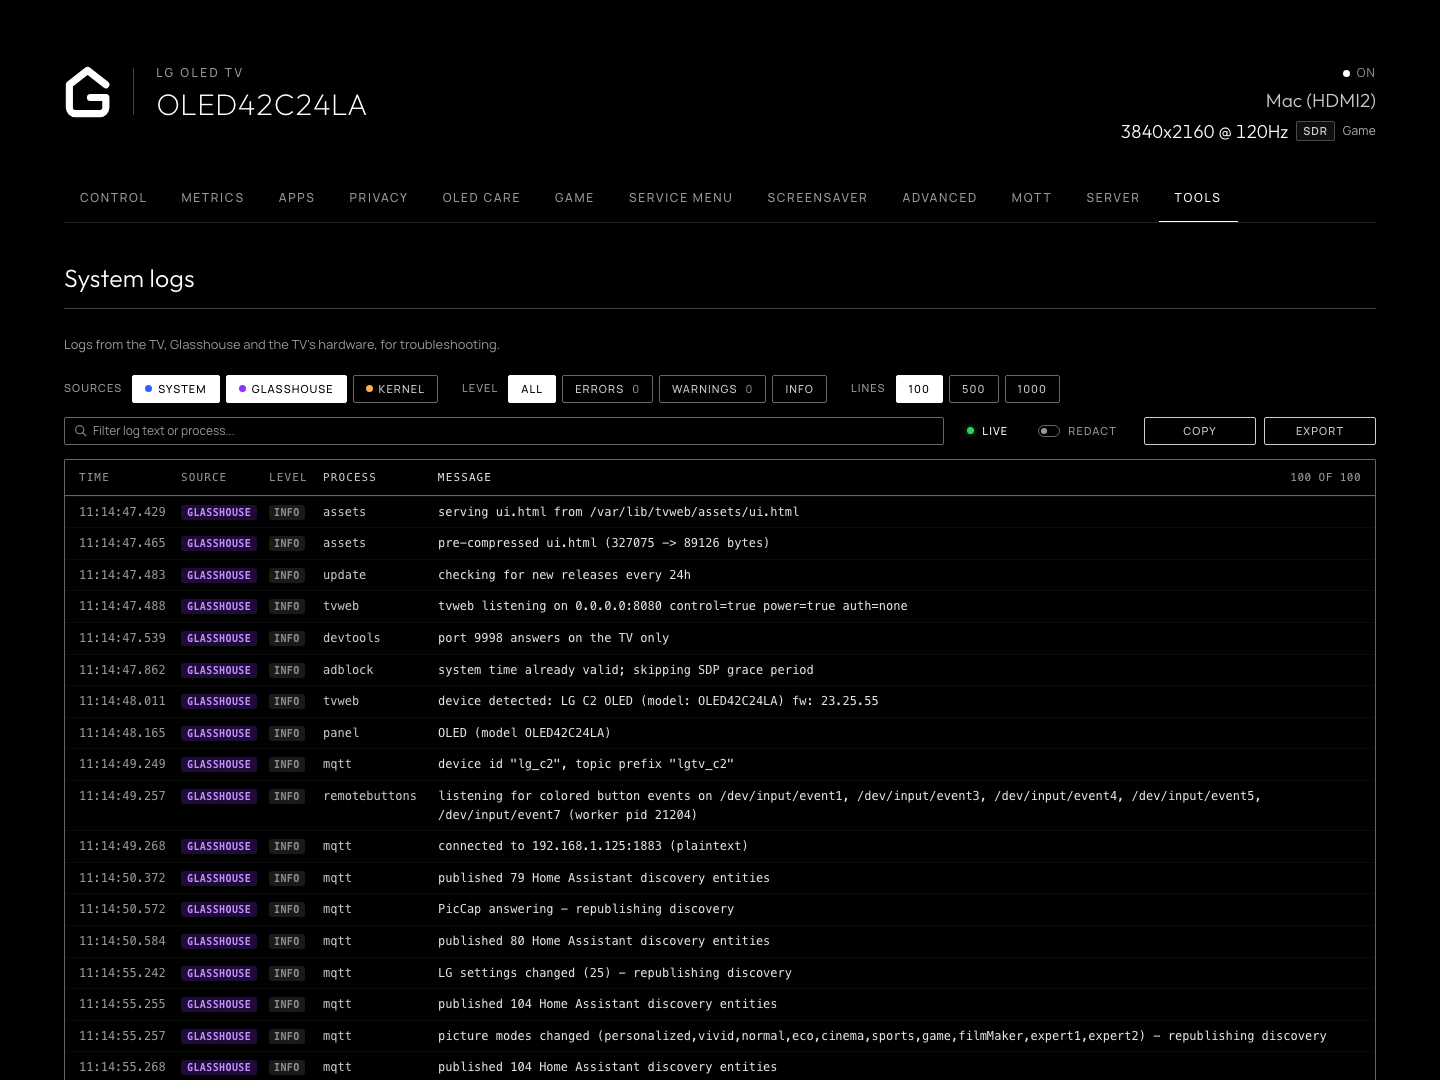
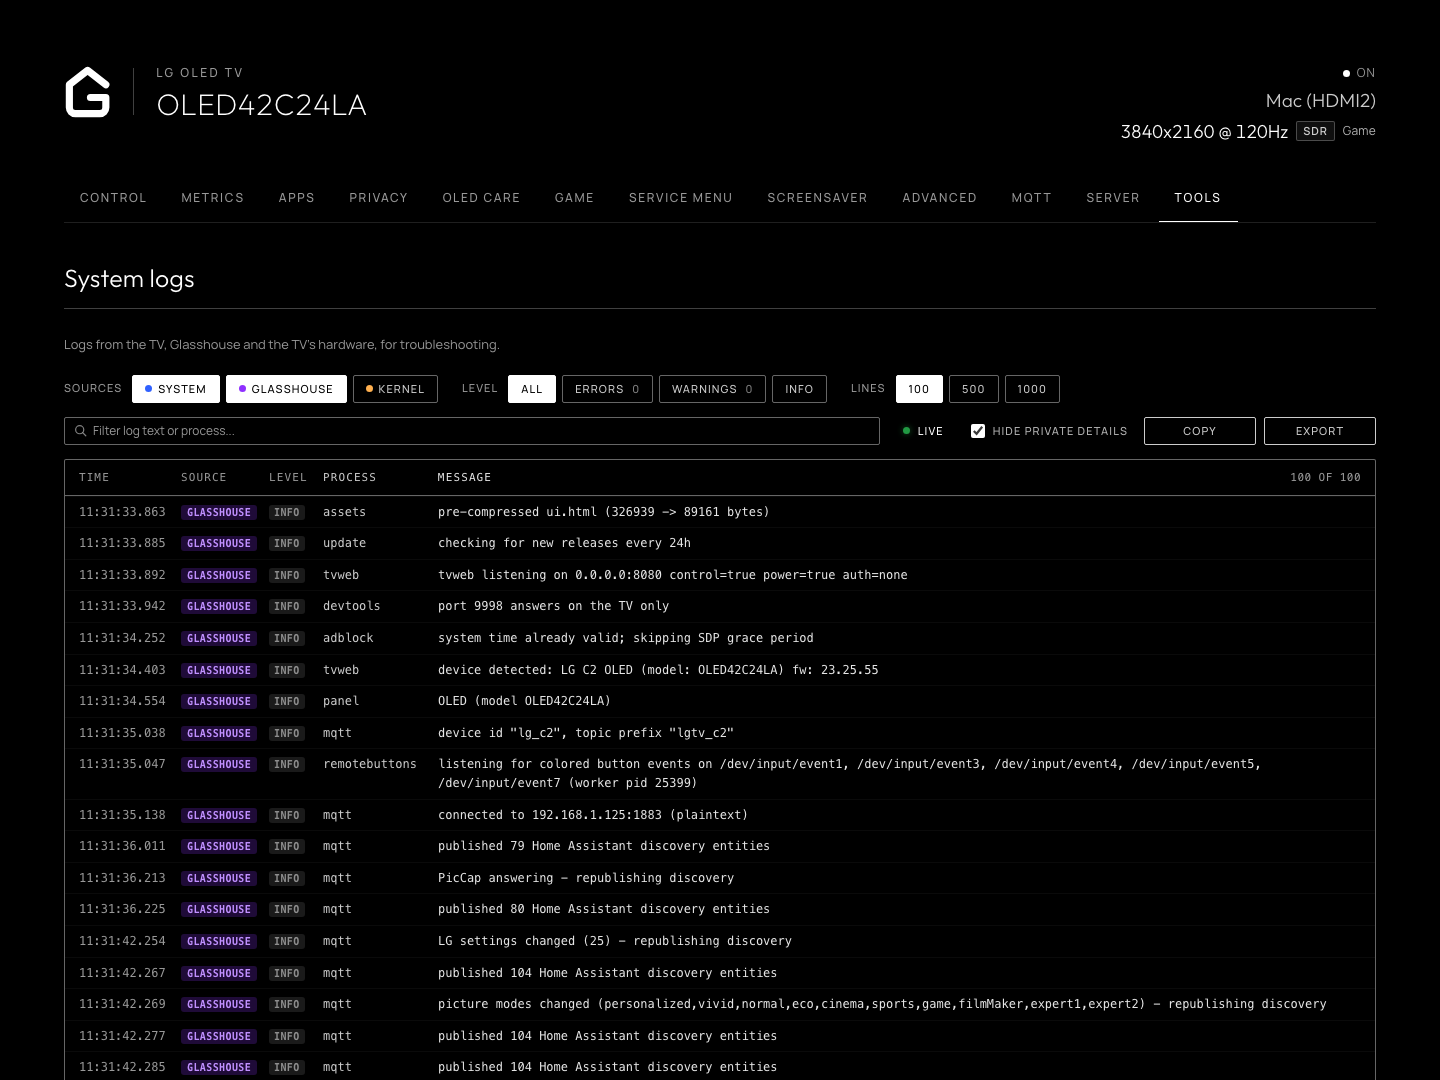
Hide private details when logs are copied or exported, not in the view

diff --git a/server/assets/ui/ui.css b/server/assets/ui/ui.css
@@ -858,19 +858,18 @@ footer{margin-top:38px;font-size:12px;letter-spacing:.10em;text-transform:upperc
 .tools-search-clear:hover{color:var(--w100)}
 .tools-search-count{margin-left:auto;padding-left:12px;white-space:nowrap;font-variant-numeric:tabular-nums;letter-spacing:.04em}
 .tools-actions{display:flex;gap:8px 16px;flex-wrap:wrap;align-items:center;margin-left:auto}
-.tools-switches,.tools-buttons{display:flex;gap:8px}
+.tools-switches,.tools-buttons{display:flex;gap:8px;align-items:center;flex-wrap:wrap}
+.tools-check{display:inline-flex;align-items:center;gap:8px;margin-right:8px;font:500 11px 'Manrope';letter-spacing:.1em;
+  text-transform:uppercase;color:var(--w70);cursor:pointer;user-select:none}
+.tools-check input{width:14px;height:14px;margin:0;accent-color:var(--w100);cursor:pointer}
 
-/* Live and Redact are states, not actions: a quiet toggle with its own indicator. */
+/* Live is a state, not an action: a quiet toggle with its own indicator. */
 button.tools-switch{display:inline-flex;align-items:center;gap:8px;height:28px;min-height:0;padding:0 10px;background:transparent;
   border:1px solid transparent;border-radius:2px;color:var(--w60);font:500 11px 'Manrope';letter-spacing:.1em;
   text-transform:uppercase;cursor:pointer;transition:.16s ease}
 button.tools-switch:hover{color:var(--w100);border-color:var(--edge)}
 button.tools-switch.on{color:var(--w100);background:transparent;border-color:transparent}
 button.tools-switch.on:hover{border-color:var(--edge)}
-.tools-switch-box{width:22px;height:12px;border-radius:6px;border:1px solid var(--w40);position:relative;flex:none;transition:.16s ease}
-.tools-switch-box::after{content:'';position:absolute;top:2px;left:2px;width:6px;height:6px;border-radius:50%;background:var(--w60);transition:.16s ease}
-.tools-switch.on .tools-switch-box{border-color:var(--w100);background:var(--w100)}
-.tools-switch.on .tools-switch-box::after{left:12px;background:var(--btn-on-fg)}
 .live-dot{width:7px;height:7px;border-radius:50%;background:#30DE61;display:inline-block;flex:none;
   box-shadow:0 0 6px rgba(48,222,97,.6);animation:livePulse 2s infinite}
 .live-dot.paused{background:var(--w40);box-shadow:none;animation:none}
@@ -948,5 +947,8 @@ button.tools-switch.on:hover{border-color:var(--edge)}
   .term-col-proc{flex:1 1 0;font-size:11px;color:var(--w60)}
   .term-col-msg{flex:0 0 100%}
   .tools-actions{width:100%;justify-content:space-between;margin-left:0}
+  .tools-buttons{width:100%}
+  .tools-check{flex:0 0 100%;margin:0 0 4px}
+  .tools-buttons .pill{flex:1 1 0}
   .tools-toolbar-grp{flex-direction:column;align-items:flex-start;gap:6px}
 }

diff --git a/server/assets/ui/tools.js b/server/assets/ui/tools.js
@@ -6,7 +6,9 @@ let toolsLevel = 'all';
 let toolsQuery = '';
 let toolsLive = true;
 let toolsAutoScroll = true;
-let toolsRedact = false;
+// Whether Copy, Export and Copy raw take private details out. On unless
+// unticked: a log is most often copied to be posted somewhere public.
+let toolsRedact = true;
 let toolsEntries = [];
 // The open row, by what it is rather than where: new lines on a live tab move
 // every row, so a position would drift onto another entry.
@@ -34,10 +36,8 @@ function redactToolsText(str) {
     .replace(/\b(?!(?:127\.0\.0\.1|0\.0\.0\.0)\b)(?:(?:25[0-5]|2[0-4][0-9]|[01]?[0-9][0-9]?)\.){3}(?:25[0-5]|2[0-4][0-9]|[01]?[0-9][0-9]?)\b/g, '<IP>');
 }
 
-function toggleToolsRedact() {
-  toolsRedact = !toolsRedact;
-  setToolsSwitch('tools-redact-btn', toolsRedact);
-  renderToolsLogs();
+function setToolsRedact(on) {
+  toolsRedact = !!on;
 }
 
 function setToolsSwitch(id, on) {
@@ -218,13 +218,13 @@ function renderToolsLogs() {
     const uptime = e.mono != null ? t('tools.uptimeOffset', '+{sec}s uptime', { sec: e.mono.toFixed(1) }) : '';
     const fullTimeTip = esc(e.ts + (uptime ? ' (' + uptime + ')' : ''));
     const lvl = levelShort(e.level);
-    const displayMsg = toolsRedact ? redactToolsText(e.msg) : e.msg;
+    const displayMsg = e.msg;
     // Glasshouse lines start with their process ("mqtt: ..."), which the
     // Process column already shows.
     const rowMsg = e.proc && displayMsg && displayMsg.indexOf(e.proc + ': ') === 0
       ? displayMsg.slice(e.proc.length + 2) : displayMsg;
-    const displayRaw = toolsRedact ? redactToolsText(e.raw) : e.raw;
-    const displayProc = toolsRedact ? redactToolsText(e.proc) : e.proc;
+    const displayRaw = e.raw;
+    const displayProc = e.proc;
 
     let detailHtml = '';
     if (isExpanded) {
@@ -450,7 +450,7 @@ async function copyToolsRaw(idx, btn) {
 function downloadToolsLogs() {
   const filtered = getFilteredEntries();
   if (!filtered.length) return;
-  const header = `# Glasshouse & webOS System Logs\n# Exported: ${new Date().toISOString()}\n# Entries: ${filtered.length}\n# Redacted: ${toolsRedact ? 'true' : 'false'}\n\n`;
+  const header = `# Glasshouse & webOS System Logs\n# Exported: ${new Date().toISOString()}\n# Entries: ${filtered.length}\n# Private details hidden: ${toolsRedact ? 'yes' : 'no'}\n\n`;
   const lines = filtered.map(logLine);
   const content = header + lines.join('\n');
   const blob = new Blob([content], { type: 'text/plain;charset=utf-8' });

diff --git a/server/assets/ui.html b/server/assets/ui.html
@@ -1053,12 +1053,10 @@
         <button type="button" class="tools-switch on" id="tools-live-btn" aria-pressed="true" onclick="toggleToolsLive()">
           <span class="live-dot" id="tools-live-dot"></span><span id="tools-live-text" data-t="tools.live">Live</span>
         </button>
-        <button type="button" class="tools-switch" id="tools-redact-btn" aria-pressed="false" onclick="toggleToolsRedact()">
-          <span class="tools-switch-box" aria-hidden="true"></span><span data-t="tools.redact">Redact</span>
-        </button>
       </div>
       <div class="tools-buttons">
         <button type="button" class="pill" id="tools-refresh-btn" onclick="loadLogs(false)" data-t="tools.refresh" hidden>Refresh</button>
+        <label class="tools-check"><input type="checkbox" id="tools-redact" checked onchange="setToolsRedact(this.checked)"><span data-t="tools.hidePrivate">Hide private details</span></label>
         <button type="button" class="pill" id="tools-copy-btn" onclick="copyToolsLogs()" data-t="tools.copy">Copy</button>
         <button type="button" class="pill" id="tools-download-btn" onclick="downloadToolsLogs()" data-t="tools.download">Export</button>
       </div>

diff --git a/docs/dashboard/tools.md b/docs/dashboard/tools.md
@@ -15,7 +15,7 @@ The **Tools** tab, `/?tab=tools`, provides a live system log inspection terminal
 * **Live view & pause**: The view follows new lines as they are written, fetching only what is new, and stops while the browser tab is hidden. It opens at the newest line; scrolling up holds it in place, and **Jump to latest** follows again.
 * **Inspector drawer**: Clicking any log line expands detailed metadata and renders pretty-printed, syntax-highlighted JSON for structured webOS event payloads.
 * **Export & copy**: The lines shown, after any filter, copied to the clipboard or saved as a timestamped `.txt` file for a bug report.
-* **Redact**: Hides passwords, tokens, serial numbers, Wi-Fi network names, and MAC and IP addresses in the view, and in what is copied or exported. The logs can still name the apps in use, so it is worth reading them before posting.
+* **Hide private details**: On by default, it takes passwords, tokens, serial numbers, Wi-Fi network names, and MAC and IP addresses out of what is copied or exported. The view itself always shows the full log. The logs can still name the apps in use, so it is worth reading them before posting.
 
 ### Log levels
 
@@ -27,6 +27,6 @@ How much the Glasshouse server writes is set in `/var/lib/tvweb/config.json`:
 
 `info`, the default, writes the server's normal activity. `quiet` leaves that out and writes only warnings and errors. `debug` adds extra detail for troubleshooting, though few parts of the server write any yet. The level is read when the server starts, so a change takes effect after `/var/lib/tvweb/tvwebctl restart` or a reboot of the TV.
 
-![Tools tab: source, level and line filters, search, Live and Redact switches, and the log](../screenshots/tools.png)
+![Tools tab: source, level and line filters, search, Live switch, and the log](../screenshots/tools.png)
 
 *Live webOS system logs, Glasshouse daemon events, and kernel ring buffer diagnostics.*
